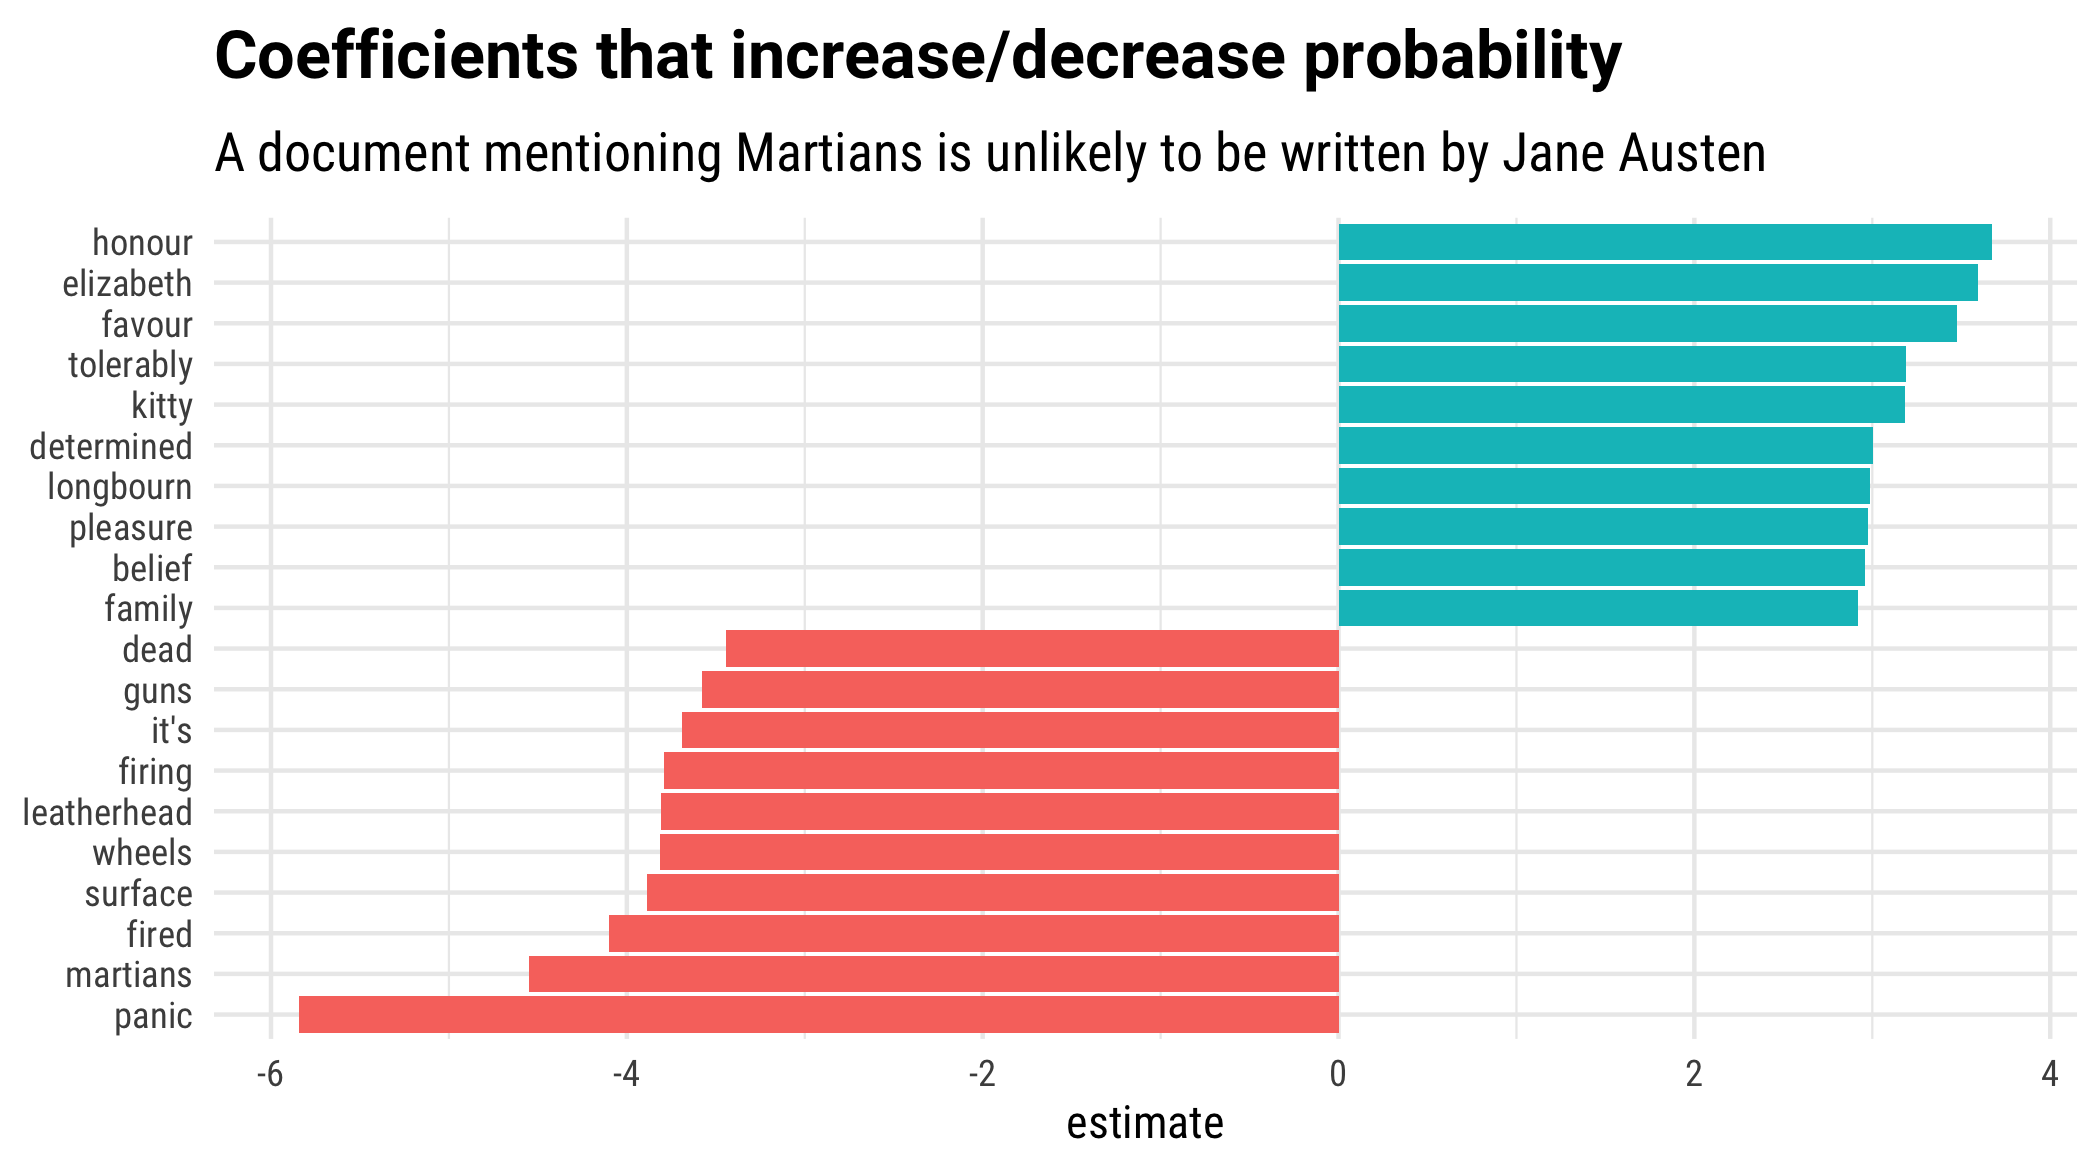
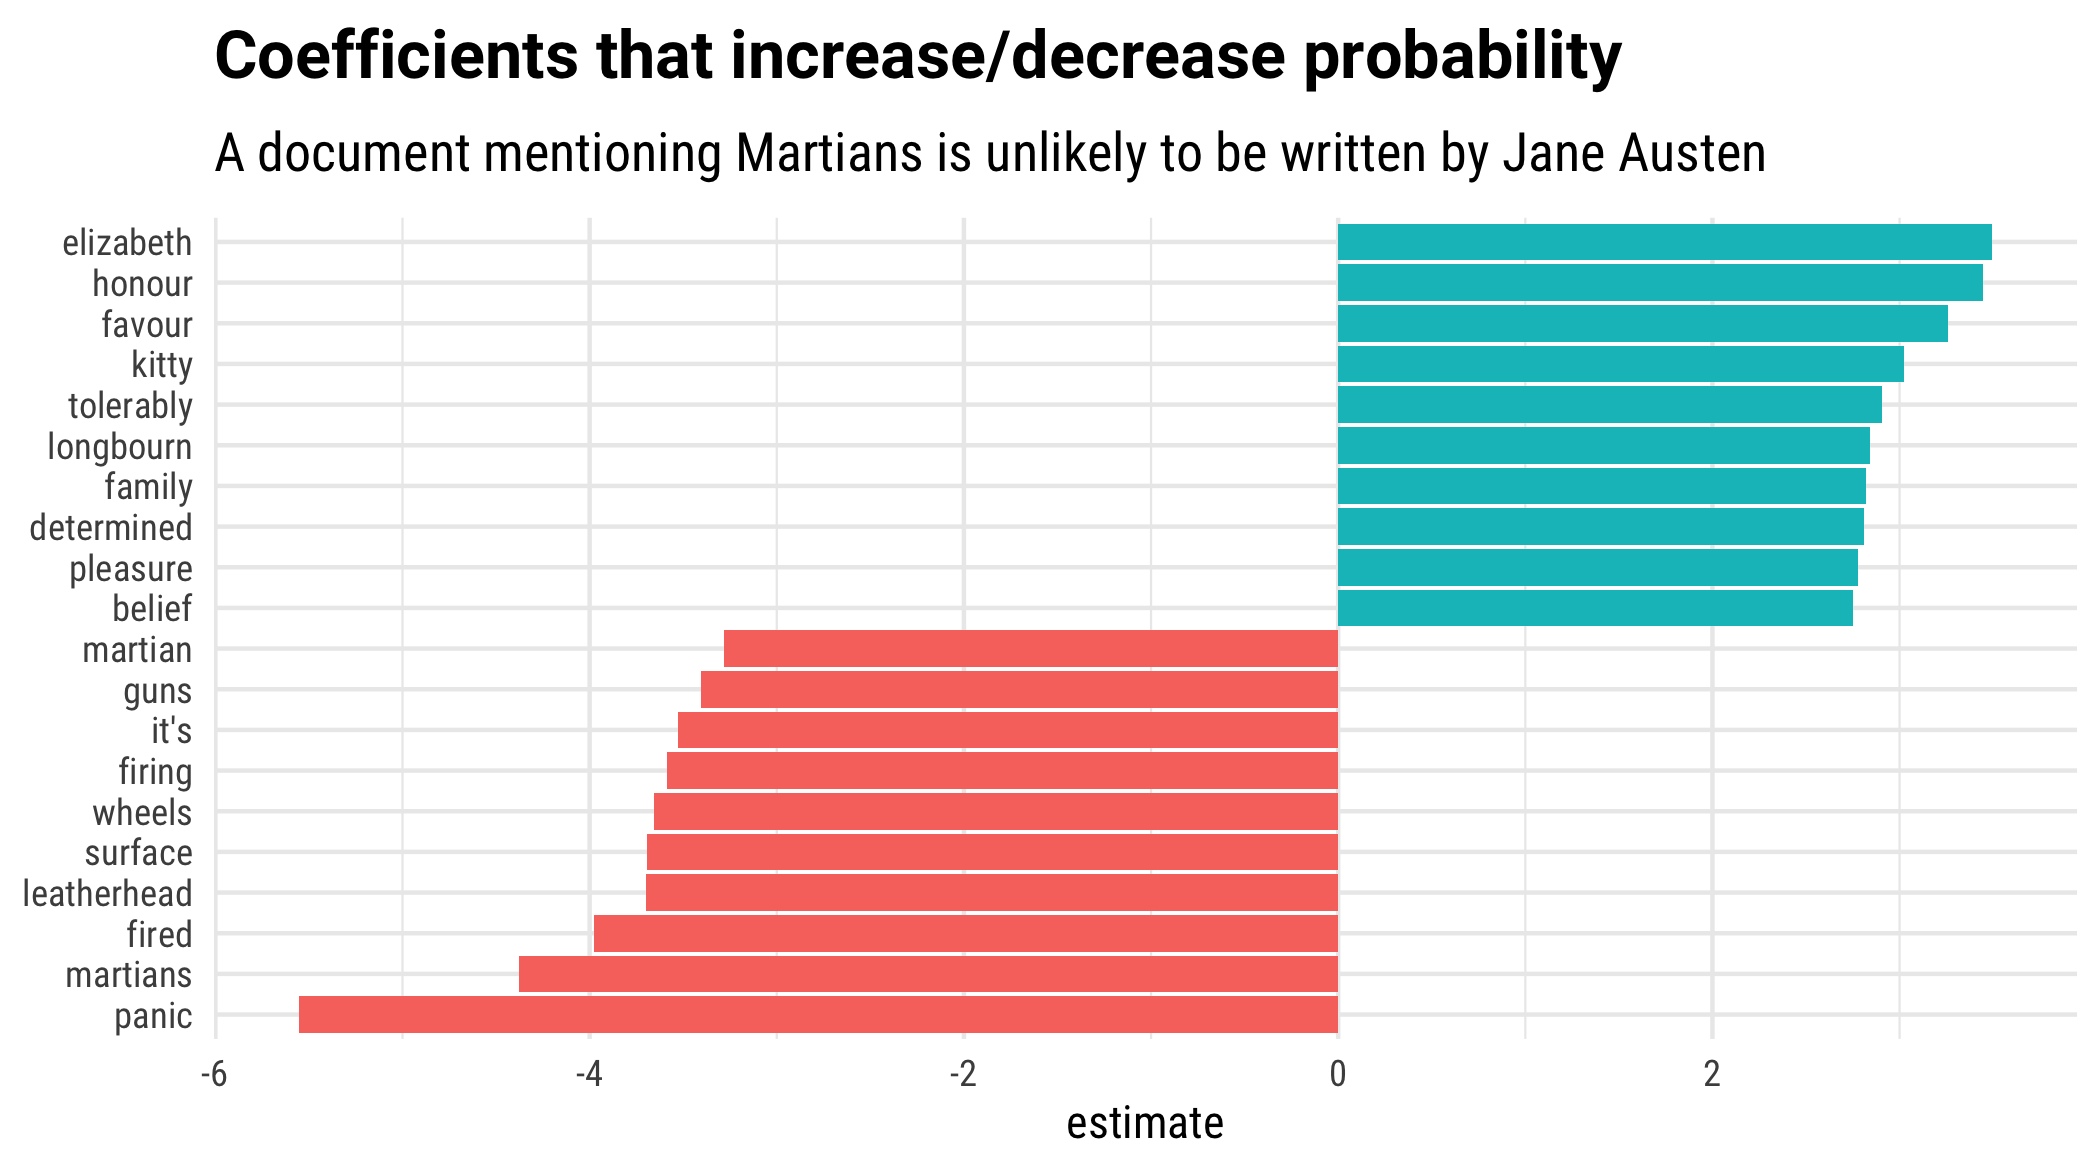
Reknit because of `dim` problem

diff --git a/materials/slides/modeling.html b/materials/slides/modeling.html
@@ -224,7 +224,7 @@ class: center, middle, inverse
 background-image: url(figs/p_and_p_cover.png)
 background-size: cover
 
-# GREAT LIBRARY HEIST 🕵♀
+# GREAT LIBRARY HEIST 🕵
 
 ---
 
@@ -807,11 +807,11 @@ k_result %&gt;%
 
 --
 
-- .large[Correlates well with human judgment of topic quality 😄]
+- .large[Correlates well with human judgment of topic quality 😆]
 
 --
 
-- .large[Having high semantic coherence is relatively easy, though, if you only have a few topics dominated by very common words 😿]
+- .large[Having high semantic coherence is relatively easy, though, if you only have a few topics dominated by very common words 😢]
 
 --
 
@@ -959,7 +959,7 @@ dim(sparse_words)
 ```
 
 ```
-## [1] 15922  1652
+## [1] 15911  1652
 ```
 
 ---
@@ -970,7 +970,7 @@ dim(sparse_words)
 
 .large[Which `dim` of the sparse matrix is the number of features?]
 
-- .large[]
+- .large[15911]
 - .large[1652]
 
 .large[Feature = term = word]
@@ -1003,7 +1003,7 @@ glimpse(books_joined)
 ```
 
 ```
-## Observations: 15,922
+## Observations: 15,911
 ## Variables: 2
 ## $ document &lt;int&gt; 4532, 6450, 14686, 15669, 308, 1264, 1287, 1487, 1639, 1698,…
 ## $ title    &lt;chr&gt; "The War of the Worlds", "The War of the Worlds", "Pride and…
@@ -1094,11 +1094,11 @@ glimpse(classifications)
 ```
 
 ```
-## Observations: 14,428
+## Observations: 14,450
 ## Variables: 3
-## $ document    &lt;int&gt; 6, 7, 8, 15, 19, 21, 24, 25, 26, 28, 30, 31, 32, 33, 34, …
-## $ score       &lt;dbl&gt; 7.6311181, -3.0679343, -3.8387431, -11.2913489, 0.8897134…
-## $ probability &lt;dbl&gt; 9.996044e-01, 5.394289e-02, 2.570106e-02, 1.529772e-05, 7…
+## $ document    &lt;int&gt; 1, 3, 7, 8, 13, 15, 24, 25, 26, 27, 28, 30, 31, 32, 33, 3…
+## $ score       &lt;dbl&gt; -6.9574480, 0.2116710, -1.9600373, -1.1694809, -0.2357058…
+## $ probability &lt;dbl&gt; 1.175164e-03, 6.044275e-01, 1.483299e-01, 2.774383e-01, 4…
 ```
 
 ---
@@ -1186,11 +1186,11 @@ glimpse(comment_classes)
 ```
 
 ```
-## Observations: 14,428
+## Observations: 14,450
 ## Variables: 4
-## $ document    &lt;int&gt; 6, 7, 8, 15, 19, 21, 24, 25, 26, 28, 30, 31, 32, 33, 34, …
-## $ score       &lt;dbl&gt; 7.6311181, -3.0679343, -3.8387431, -11.2913489, 0.8897134…
-## $ probability &lt;dbl&gt; 9.996044e-01, 5.394289e-02, 2.570106e-02, 1.529772e-05, 7…
+## $ document    &lt;int&gt; 1, 3, 7, 8, 13, 15, 24, 25, 26, 27, 28, 30, 31, 32, 33, 3…
+## $ score       &lt;dbl&gt; -6.9574480, 0.2116710, -1.9600373, -1.1694809, -0.2357058…
+## $ probability &lt;dbl&gt; 1.175164e-03, 6.044275e-01, 1.483299e-01, 2.774383e-01, 4…
 ## $ title       &lt;fct&gt; The War of the Worlds, The War of the Worlds, The War of …
 ```
 
@@ -1265,8 +1265,8 @@ comment_classes %&gt;%
 ```
 ##                        Truth
 ## Prediction              Pride and Prejudice The War of the Worlds
-##   Pride and Prejudice                  9423                   333
-##   The War of the Worlds                 224                  4448
+##   Pride and Prejudice                  9407                   358
+##   The War of the Worlds                 238                  4447
 ```
 
 ---
@@ -1289,11 +1289,11 @@ comment_classes %&gt;%
 ## # A tibble: 5 x 2
 ##   probability text                                                              
 ##         &lt;dbl&gt; &lt;chr&gt;                                                             
-## 1       0.838 She was steaming at such a pace that in a minute she seemed halfw…
-## 2       0.825 what folly!--when I should have stood up, though I died for it, a…
-## 3       0.986 attention is being given to this aspect of the matter.  At presen…
-## 4       0.986 meteorites are rounded more or less completely.  It was, however, 
-## 5       0.954 There were times when I beat and kicked him madly, times when I
+## 1       0.806 confidence in the future which is the most fruitful source of     
+## 2       0.996 upstairs myself for the box she was clamouring for.               
+## 3       0.870 regard as inferior animals.  To carry warfare sunward is, indeed, 
+## 4       0.998 am convinced--as firmly as I am convinced of anything--that the   
+## 5       0.901 his gardening was as generous as it was enthusiastic.  At the same
 ```
 
 ---
@@ -1316,11 +1316,11 @@ comment_classes %&gt;%
 ## # A tibble: 5 x 2
 ##   probability text                                                              
 ##         &lt;dbl&gt; &lt;chr&gt;                                                             
-## 1     0.0966  was a liberal man, and did much good among the poor.              
-## 2     0.112   the happiest of men.                                              
-## 3     0.00314 occasional appearance of some trout in the water, and talking to …
-## 4     0.166   natural consequence of the prejudices I had been encouraging. The…
-## 5     0.0387  them at all the turnpikes, and at the inns in Barnet and Hatfield…
+## 1      0.119  "to find out the stand and number of the coach. I do not know of …
+## 2      0.0646 "laid the foundation. It is too long ago. I was in the middle bef…
+## 3      0.0492 "An express came at twelve last night, just as we were all gone t…
+## 4      0.0138 "of men, and that he hates me.\""                                 
+## 5      0.269  "clergyman, and his right as a rector, made him altogether a mixt…
 ```
 
 ---
